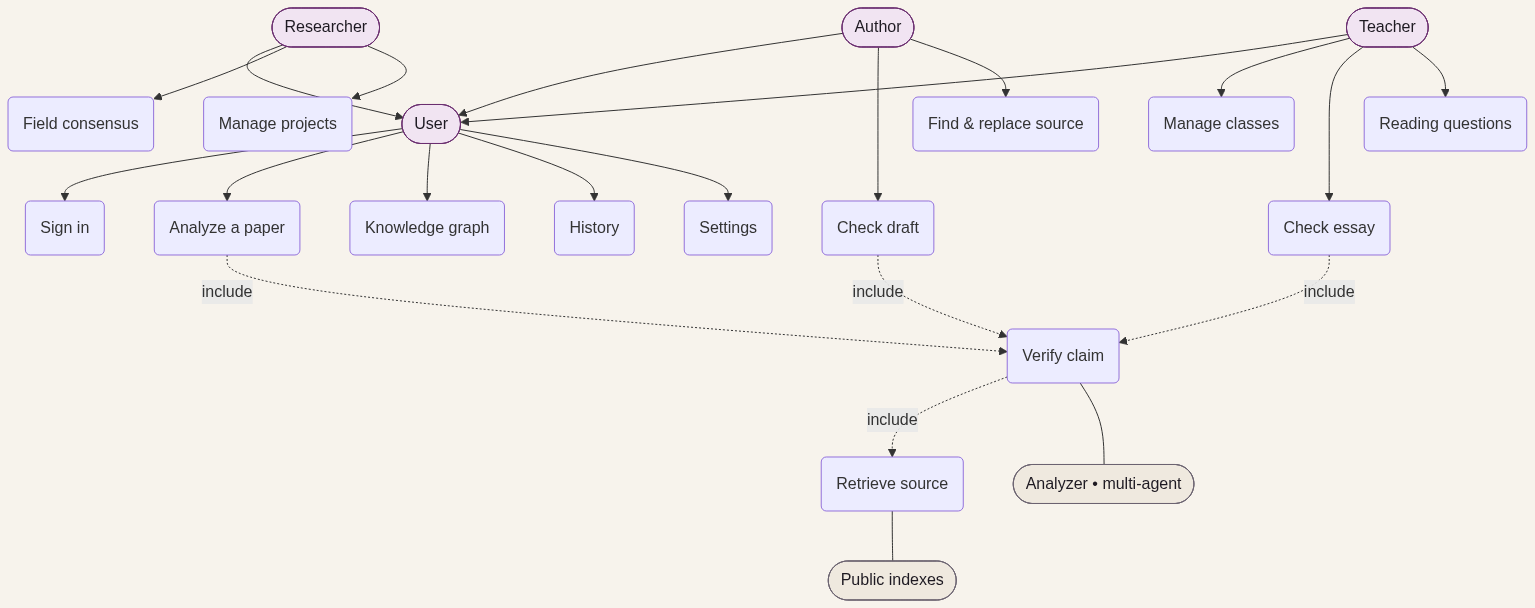
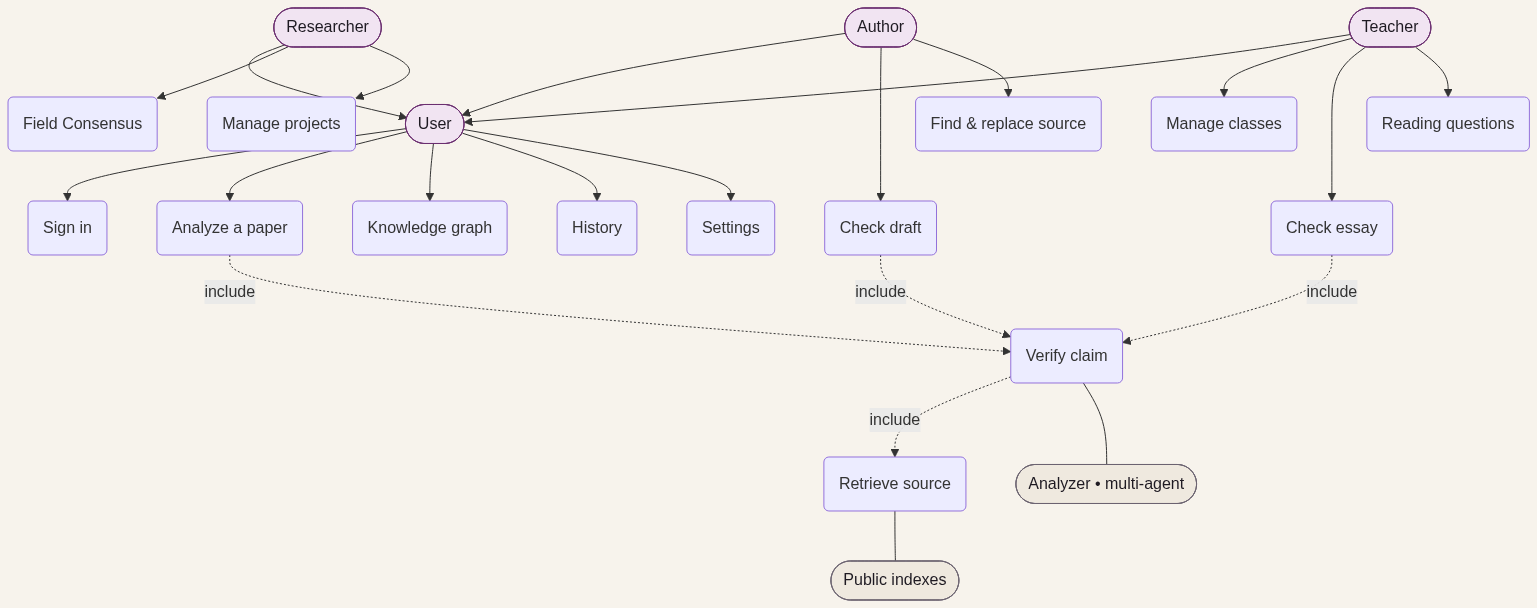
docs: normalize the ER diagram and add the full project diagram set
The ER read strangely — it blended the ideal model with the JSON-blob storage
and drew paper<->project as a raw many-to-many. Fix and expand:

- Logical ER (3NF): proper entities with PK/FK and crow's-foot cardinalities;
  paper<->project resolved by a PROJECT_PAPER join entity; REFERENCE resolves to
  a deduped SOURCE; each (claim, source) yields one VERDICT.
- Physical storage shown separately: the three Supabase blob tables
  (analyses / sources / projects) + the adk session schema, with a note that the
  logical entities live inside analyses.data JSONB.
- Added: system architecture, analyze-a-paper pipeline (sequence), multi-agent
  architecture, analysis lifecycle (state), auth & per-user access (sequence),
  and deployment (compose services). Use-case kept (Graph/History shared).

All nine are Mermaid (render on GitHub) with PNG exports in docs/img/.

diff --git a/docs/diagrams.md b/docs/diagrams.md
@@ -1,13 +1,58 @@
 # SecretSource — Diagrams
 
-GitHub renders the Mermaid blocks below automatically — edit the code fences to update.
-Static PNG copies (for slides / the report) live in [`docs/img/`](img/): [use-case](img/usecase.png) · [ER](img/er.png).
+Every diagram below is Mermaid, so GitHub renders it on this page. Static PNG copies for
+slides / the report are in [`docs/img/`](img/).
 
-## Use-case diagram
+SecretSource is a multi-agent, multimodal citation-verification tool: give it a paper and it
+extracts each claim, finds the works that claim cites, and checks whether those sources actually
+support the claim — returning per-claim verdicts, a field-consensus view, and a knowledge graph.
 
-Roles inherit a shared **User** actor, so every role gets the shared use cases
-(**Analyze a paper, Knowledge graph, History, Sign in, Settings**). Graph and History
-aggregate every role's work — one account can hold several roles.
+---
+
+## 1. System architecture
+
+```mermaid
+flowchart LR
+  subgraph Client
+    WEB["Web app<br/>React + Vite"]
+  end
+  subgraph Gateway
+    GW["FastAPI gateway<br/>app/main.py"]
+    PIPE["Analysis pipeline<br/>extract → resolve → verify → audit"]
+    AG["ADK agents<br/>coordinator + specialists"]
+  end
+  subgraph Retrieval["Retrieval & parsing"]
+    GROBID["GROBID<br/>parse PDF → claims, refs"]
+    COLBERT["ColBERT<br/>text retrieval"]
+    COLPALI["ColPali<br/>page / figure retrieval"]
+    QDRANT[("Qdrant<br/>vector store")]
+  end
+  LLM["vLLM<br/>claim extraction & verdicts"]
+  subgraph Data
+    SUPA[("Supabase Postgres<br/>analyses · sources · projects · adk")]
+    DISK[("Disk<br/>PDFs · figures · page renders")]
+  end
+  IDX["Public indexes<br/>Semantic Scholar · arXiv · Unpaywall"]
+
+  WEB -- "/api (proxy)" --> GW
+  WEB -- "sign in" --> AUTH["Supabase Auth"]
+  GW --> PIPE
+  GW --> AG
+  PIPE --> GROBID
+  PIPE --> IDX
+  PIPE --> COLBERT --> QDRANT
+  PIPE --> COLPALI --> QDRANT
+  PIPE --> LLM
+  AG --> LLM
+  GW --> SUPA
+  GW --> DISK
+  GW -- "verify token" --> AUTH
+```
+
+## 2. Use-case diagram
+
+Researcher / Author / Teacher inherit a base **User**, so the shared use cases apply to every
+role. **Graph** and **History** aggregate every role's work — one account can hold several roles.
 
 ```mermaid
 flowchart TB
@@ -16,7 +61,7 @@ flowchart TB
   T([Teacher]):::role --> U
 
   U --> SI(Sign in) & AN(Analyze a paper) & KG(Knowledge graph) & HI(History) & ST(Settings)
-  R --> FC(Field consensus) & MP(Manage projects)
+  R --> FC(Field Consensus) & MP(Manage projects)
   A --> CD(Check draft) & FR(Find &amp; replace source)
   T --> MC(Manage classes) & CE(Check essay) & RQ(Reading questions)
 
@@ -30,71 +75,226 @@ flowchart TB
   classDef ext fill:#EFE9DF,stroke:#6B6370,color:#1E1A22;
 ```
 
-## ER diagram
+## 3. Domain model — logical ER (normalized)
 
-Conceptual (normalized) domain model. The implementation stores it as JSON blobs
-(`analyses.data`, `sources`, `projects`) plus the `adk` session schema — a deliberate
-build-speed vs. queryability trade-off.
+The domain in third normal form. The paper↔project many-to-many is resolved by the
+**PROJECT_PAPER** join entity; a **REFERENCE** (an in-text citation) resolves to a deduplicated
+**SOURCE**; each (claim, source) pair yields one **VERDICT**.
 
 ```mermaid
 erDiagram
-  USER ||--o{ ANALYSIS : owns
+  USER ||--o{ PAPER : analyses
   USER ||--o{ PROJECT : owns
-  USER ||--o{ SESSION : has
-  PROJECT }o--o{ ANALYSIS : groups
-  ANALYSIS ||--o{ CLAIM : contains
-  CLAIM ||--o{ CITATION : cites
-  CLAIM ||--o{ VERDICT : has
-  CITATION }o--|| SOURCE : "resolves to"
-  VERDICT }o--|| SOURCE : "judged against"
+  PROJECT ||--o{ PROJECT_PAPER : contains
+  PAPER ||--o{ PROJECT_PAPER : "filed in"
+  PAPER ||--o{ CLAIM : makes
+  CLAIM ||--o{ REFERENCE : cites
+  REFERENCE }o--|| SOURCE : "resolves to"
+  CLAIM ||--o{ VERDICT : "judged in"
+  SOURCE ||--o{ VERDICT : gives
 
   USER {
-    string id PK
+    int id PK
     string email
     string display_name
     string role
   }
-  ANALYSIS {
-    string id PK
-    string owner FK
-    string paper_title
+  PAPER {
+    int id PK
+    int user_id FK
+    string title
     string status
-    datetime started
+    datetime analysed_at
+  }
+  PROJECT {
+    int id PK
+    int user_id FK
+    string name
+  }
+  PROJECT_PAPER {
+    int project_id FK
+    int paper_id FK
   }
   CLAIM {
-    string id PK
-    string analysis_id FK
+    int id PK
+    int paper_id FK
     string text
     string section
   }
-  CITATION {
-    string id PK
-    string claim_id FK
+  REFERENCE {
+    int id PK
+    int claim_id FK
+    int source_id FK
     string marker
-    string raw_ref
+  }
+  SOURCE {
+    int id PK
+    string title
+    int year
+    string doi
+    boolean indexed
   }
   VERDICT {
-    string id PK
-    string claim_id FK
-    string source_key FK
+    int id PK
+    int claim_id FK
+    int source_id FK
     string relation
     string quote
     string page
   }
-  SOURCE {
-    string key PK
-    string title
-    string year
-    string indexed
+```
+
+## 4. Physical storage (as built, Supabase)
+
+The gateway stores each analysis as one JSON document rather than the normalized tables above —
+it reads and writes whole analyses, and it matches the ADK runtime. So the logical entities
+(CLAIM, REFERENCE, VERDICT …) live **inside** `analyses.data`. Three blob tables in `public`
+plus the ADK-managed `adk` schema for chat sessions.
+
+```mermaid
+erDiagram
+  analyses {
+    text id PK
+    timestamptz started
+    jsonb data "claims, references, verdicts, owner"
   }
-  PROJECT {
-    string id PK
-    string owner FK
-    string name
+  sources {
+    text key PK
+    jsonb data "resolved cited-work lookup (cache)"
   }
-  SESSION {
-    string id PK
-    string user_id FK
-    json app_state
+  projects {
+    text id PK
+    text owner
+    jsonb data "name + analysis ids"
   }
+  adk_sessions {
+    text id PK
+    text user_id
+    json app_state "ADK-managed, adk schema"
+  }
+```
+
+> No DB-level foreign keys: rows are opaque JSON, access is filtered in the gateway (analyses by
+> the `owner` inside `data`, projects by the `owner` column). RLS is on with no policies; the
+> gateway connects with the service role.
+
+## 5. Analyze-a-paper pipeline (sequence)
+
+```mermaid
+sequenceDiagram
+  actor U as User
+  participant W as Web app
+  participant G as Gateway
+  participant GR as GROBID
+  participant IX as Public indexes
+  participant R as ColBERT / Qdrant
+  participant L as vLLM
+  participant DB as Supabase
+
+  U->>W: submit paper (DOI / arXiv / PDF)
+  W->>G: POST /analyses
+  G->>GR: parse PDF
+  GR-->>G: sections, references
+  G->>L: extract claims + citations (per window)
+  L-->>G: claims
+  loop each cited work
+    G->>IX: resolve (Semantic Scholar / arXiv / Unpaywall)
+    IX-->>G: PDF / metadata
+    G->>R: index passages
+  end
+  loop each claim × source
+    G->>R: retrieve top passages
+    G->>L: verdict (supports / refutes / insufficient) + quote
+    L-->>G: verdict
+  end
+  G->>G: audit verdicts (quote real?)
+  G->>DB: save analysis
+  G-->>W: stream stages (SSE) → results
+```
+
+## 6. Multi-agent architecture
+
+```mermaid
+flowchart TB
+  COORD["Coordinator agent"]
+  subgraph Specialists
+    RAG["rag_agent<br/>retrieve + read sources"]
+    VER["verify_agent<br/>rule on the claim"]
+    SRC["source_agent<br/>find the cited work"]
+  end
+  TOOLS["Retrieval tools<br/>ColBERT · ColPali (MCP)"]
+  MEM[("ADK session / memory<br/>Supabase adk schema")]
+  A2A["A2A server<br/>exposes the agent tree"]
+
+  COORD -- AgentTool --> RAG
+  COORD -- AgentTool --> VER
+  COORD -- AgentTool --> SRC
+  RAG --> TOOLS
+  SRC --> TOOLS
+  COORD --- MEM
+  A2A --- COORD
+```
+
+## 7. Analysis lifecycle (state)
+
+```mermaid
+stateDiagram-v2
+  [*] --> extracting
+  extracting --> planned: claims found
+  extracting --> error: parse failed
+  planned --> verifying: sources resolved
+  verifying --> audited: all checks done
+  audited --> done
+  verifying --> error: run interrupted
+  done --> [*]
+  error --> [*]
+```
+
+## 8. Authentication & per-user access
+
+```mermaid
+sequenceDiagram
+  actor U as User
+  participant W as Web app
+  participant AU as Supabase Auth
+  participant G as Gateway
+  participant DB as Supabase DB
+
+  U->>W: sign in (email / Google)
+  W->>AU: authenticate
+  AU-->>W: session + access token
+  W->>G: request + Bearer token
+  G->>AU: verify token → user id
+  AU-->>G: user id
+  G->>DB: read/write with service role
+  DB-->>G: only this user's analyses / projects
+  G-->>W: data
+  Note over W,G: no token → 401 → app signs out
+```
+
+## 9. Deployment (Docker Compose services)
+
+```mermaid
+flowchart TB
+  subgraph Public
+    web["web (nginx)"]
+    gateway["gateway (FastAPI)"]
+    mcp["secretsource-mcp"]
+  end
+  subgraph Private["Private / IAM-only"]
+    grobid["grobid"]
+    colbert["colbert"]
+    colpali["colpali"]
+    qdrant[("qdrant")]
+    vllm["vllm"]
+    adkweb["adk-web"]
+  end
+  ext[("Supabase<br/>Postgres + Auth")]
+
+  web --> gateway
+  gateway --> grobid & colbert & colpali & vllm & adkweb
+  colbert --> qdrant
+  colpali --> qdrant
+  gateway --> ext
+  mcp --> gateway
 ```
